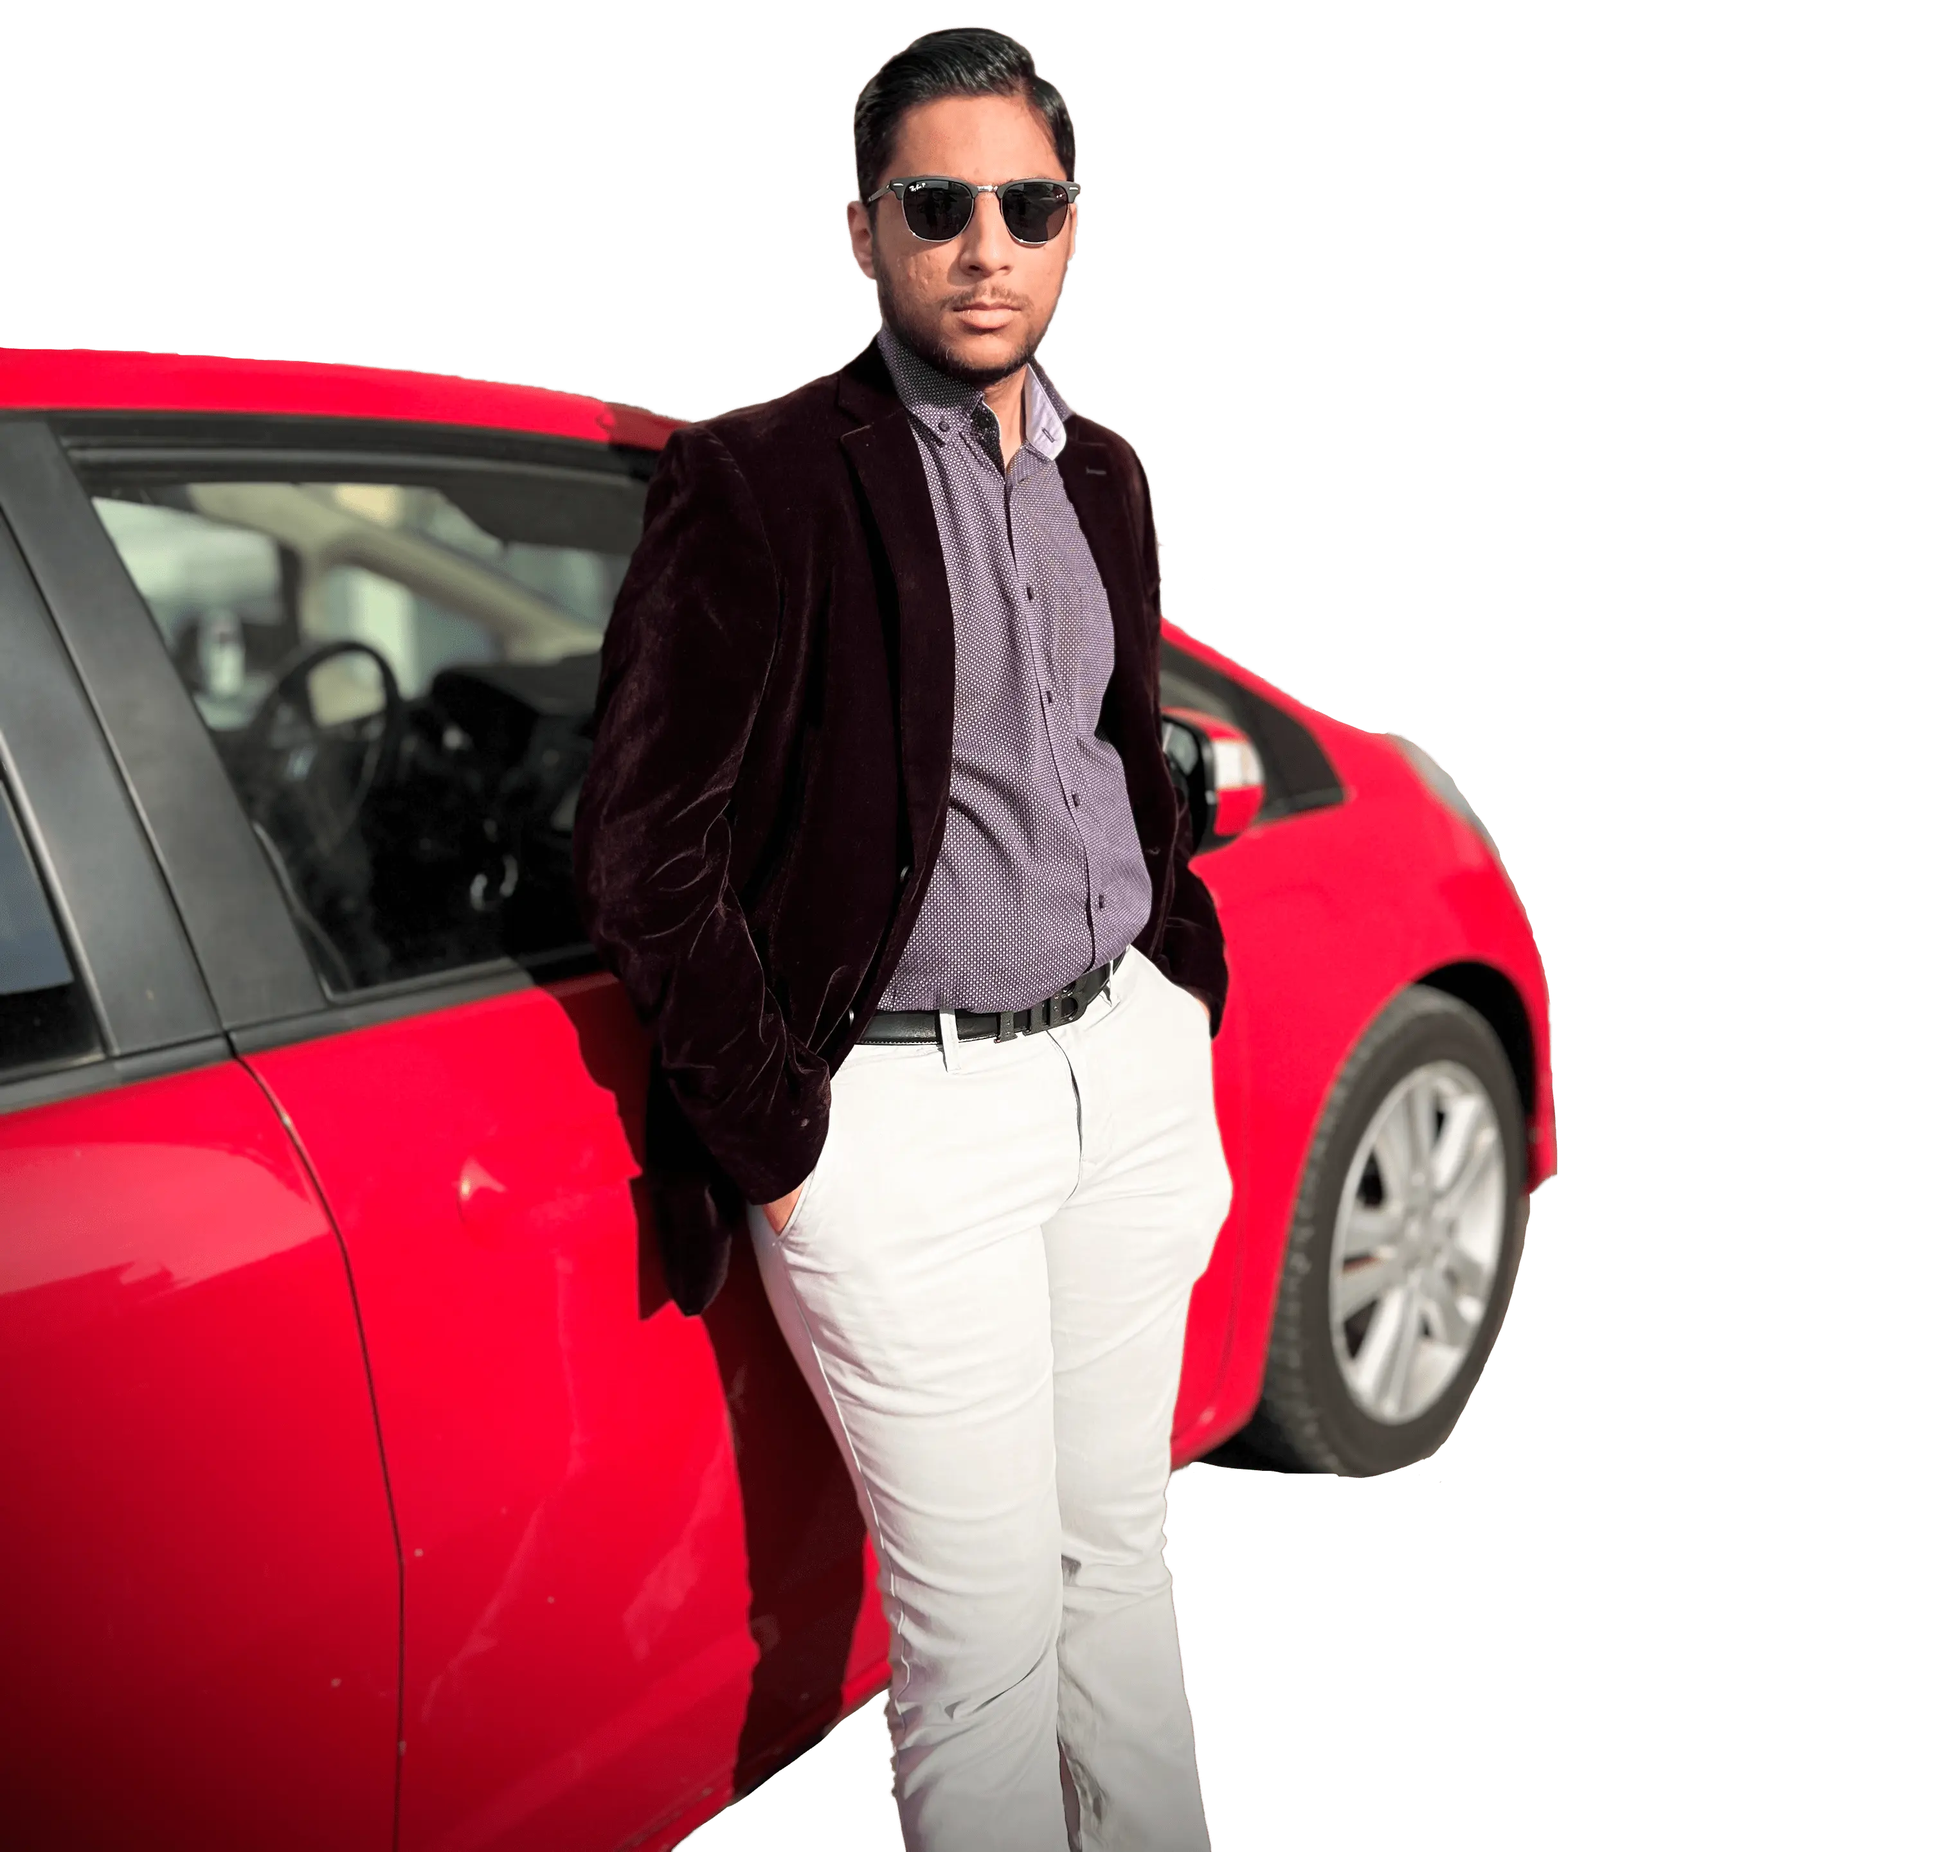
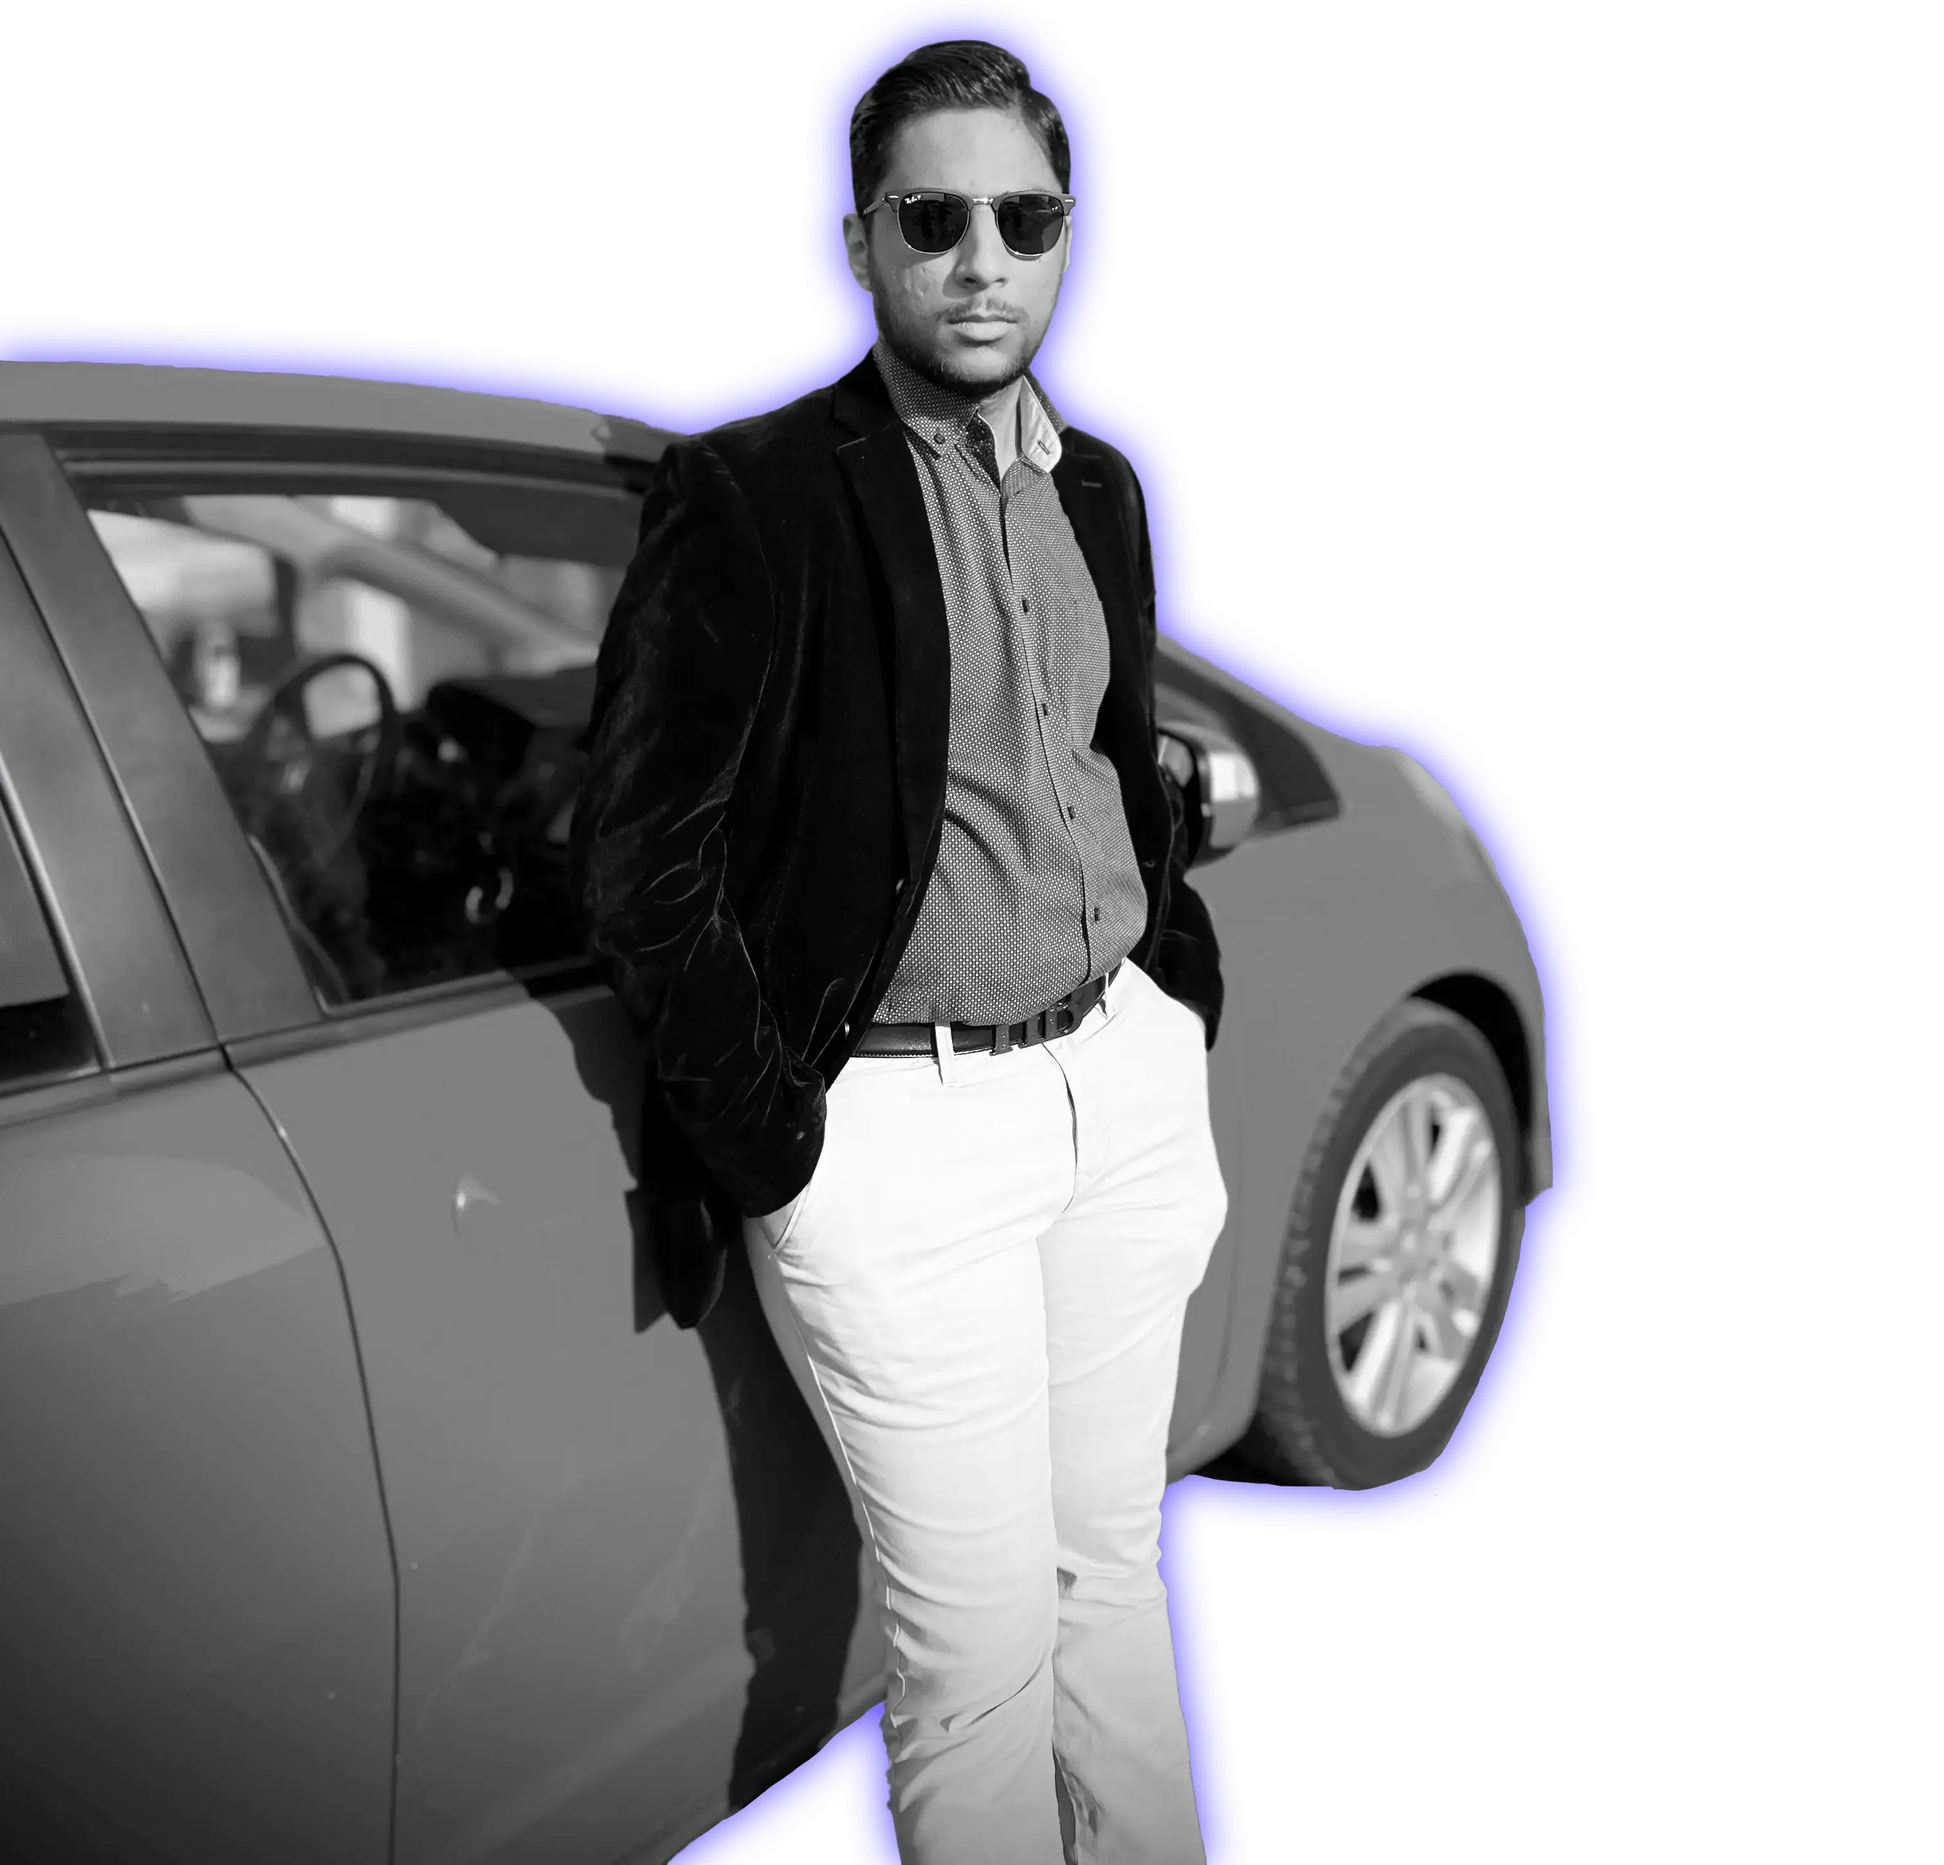
removed filter property because lag safari browser

diff --git a/css/aboutSection.css b/css/aboutSection.css
@@ -15,11 +15,27 @@ About Section Start
 
 .section-about-badge-link {
   grid-column: 2;
+  width: 25rem;
+  /* Cannot use filter, because lags on Safari Browser */
+  display: flex;
+  justify-content: center;
+  align-items: center;
 }
 
 .section-about-badge {
   width: 25rem;
   height: 25rem;
-  -webkit-filter: drop-shadow(0 0 9.7rem var(--helper));
-  filter: drop-shadow(0 0 9.7rem var(--helper));
+  position: relative;
+}
+
+.section-about-badge-link::before {
+  /* Adding Shadow */
+  content: "";
+  display: block;
+  position: absolute;
+  height: 24rem;
+  width: 24rem;
+  border-radius: 2rem;
+  box-shadow: var(--secondary-shadow);
+  z-index: -1;
 }

diff --git a/css/heroSection.css b/css/heroSection.css
@@ -23,8 +23,6 @@ Hero Section Start
   height: 100%;
   object-position: top;
   object-fit: cover;
-  -webkit-filter: grayscale() drop-shadow(0 0 4rem var(--helper));
-  filter: grayscale() drop-shadow(0 0 4rem var(--helper));
 }
 
 .section-hero-text-box {
